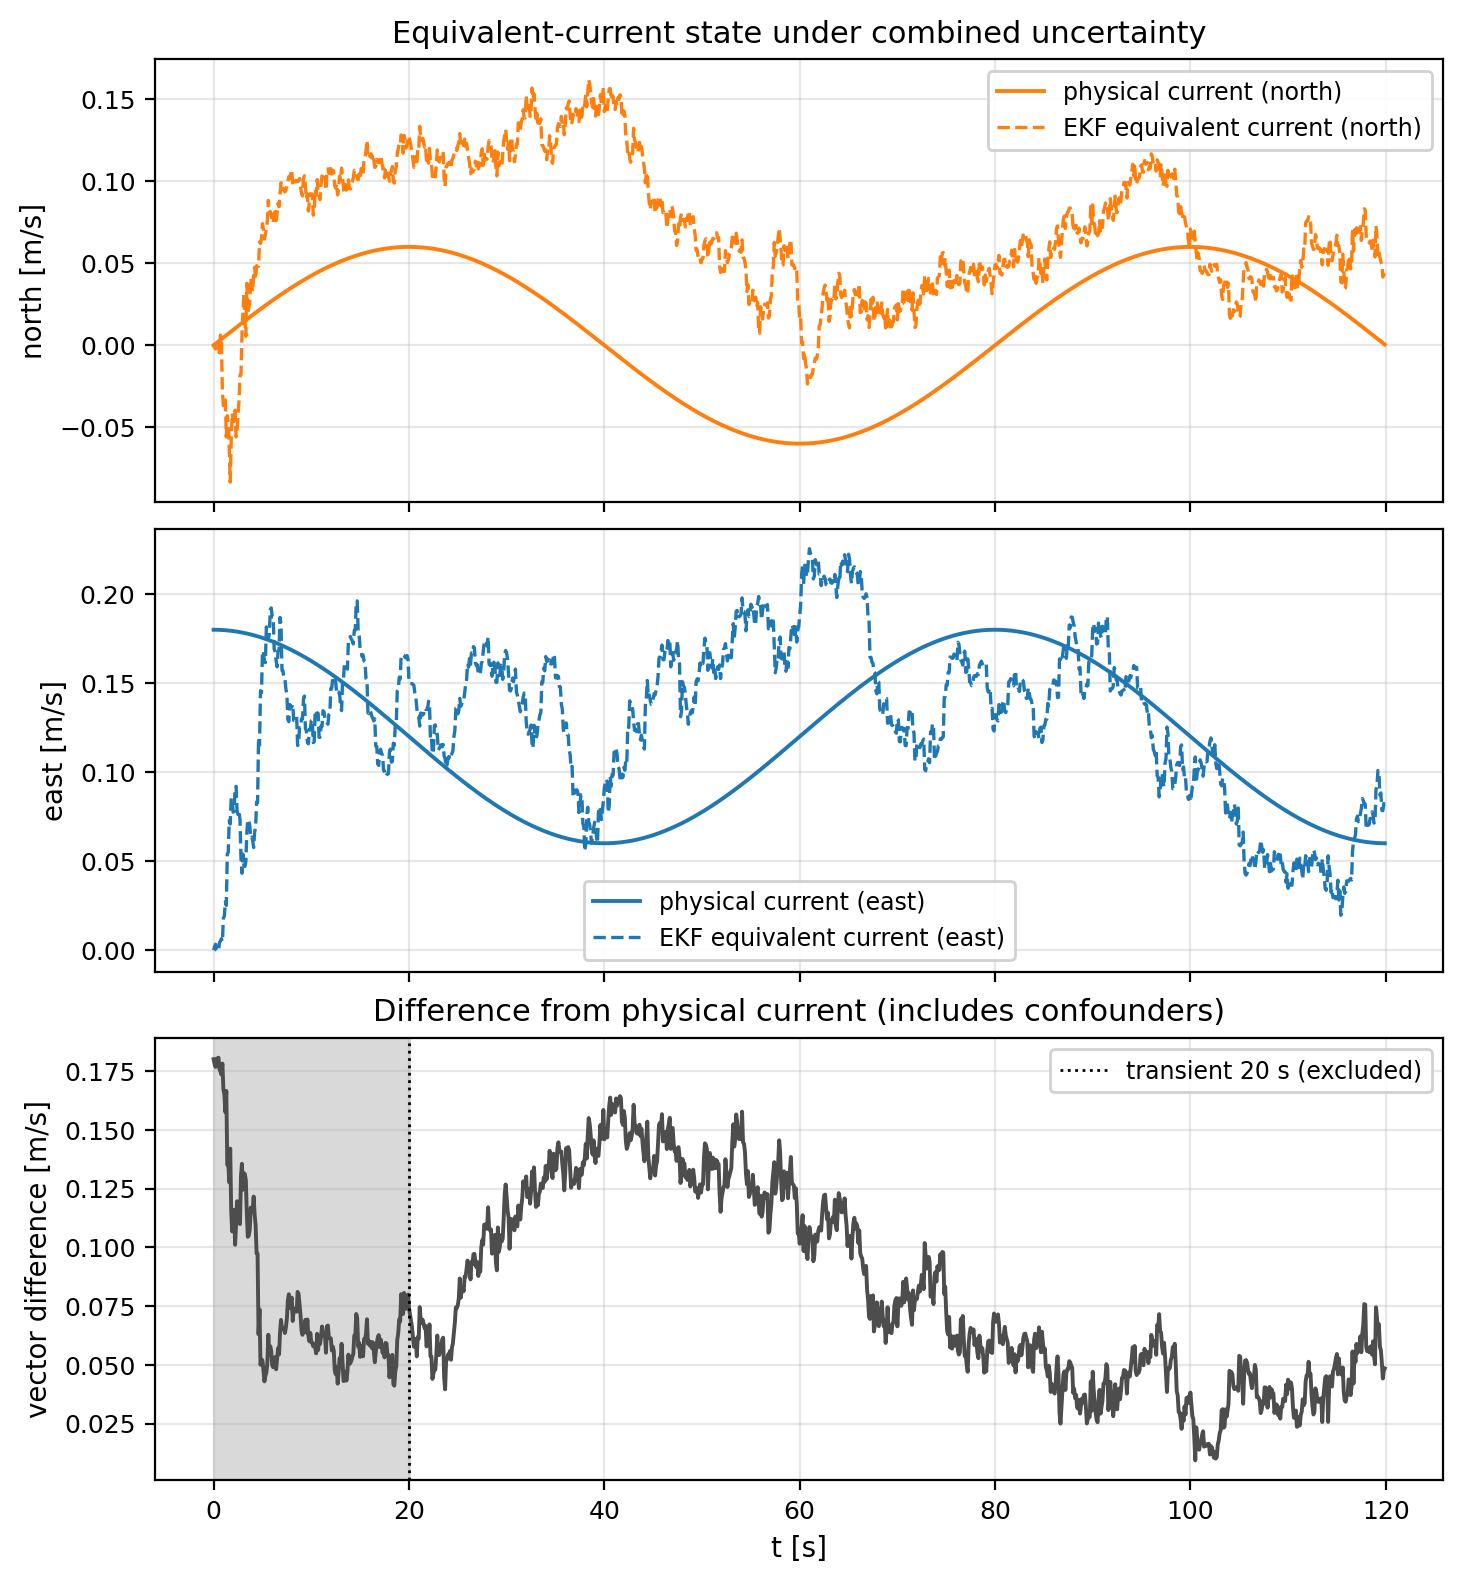
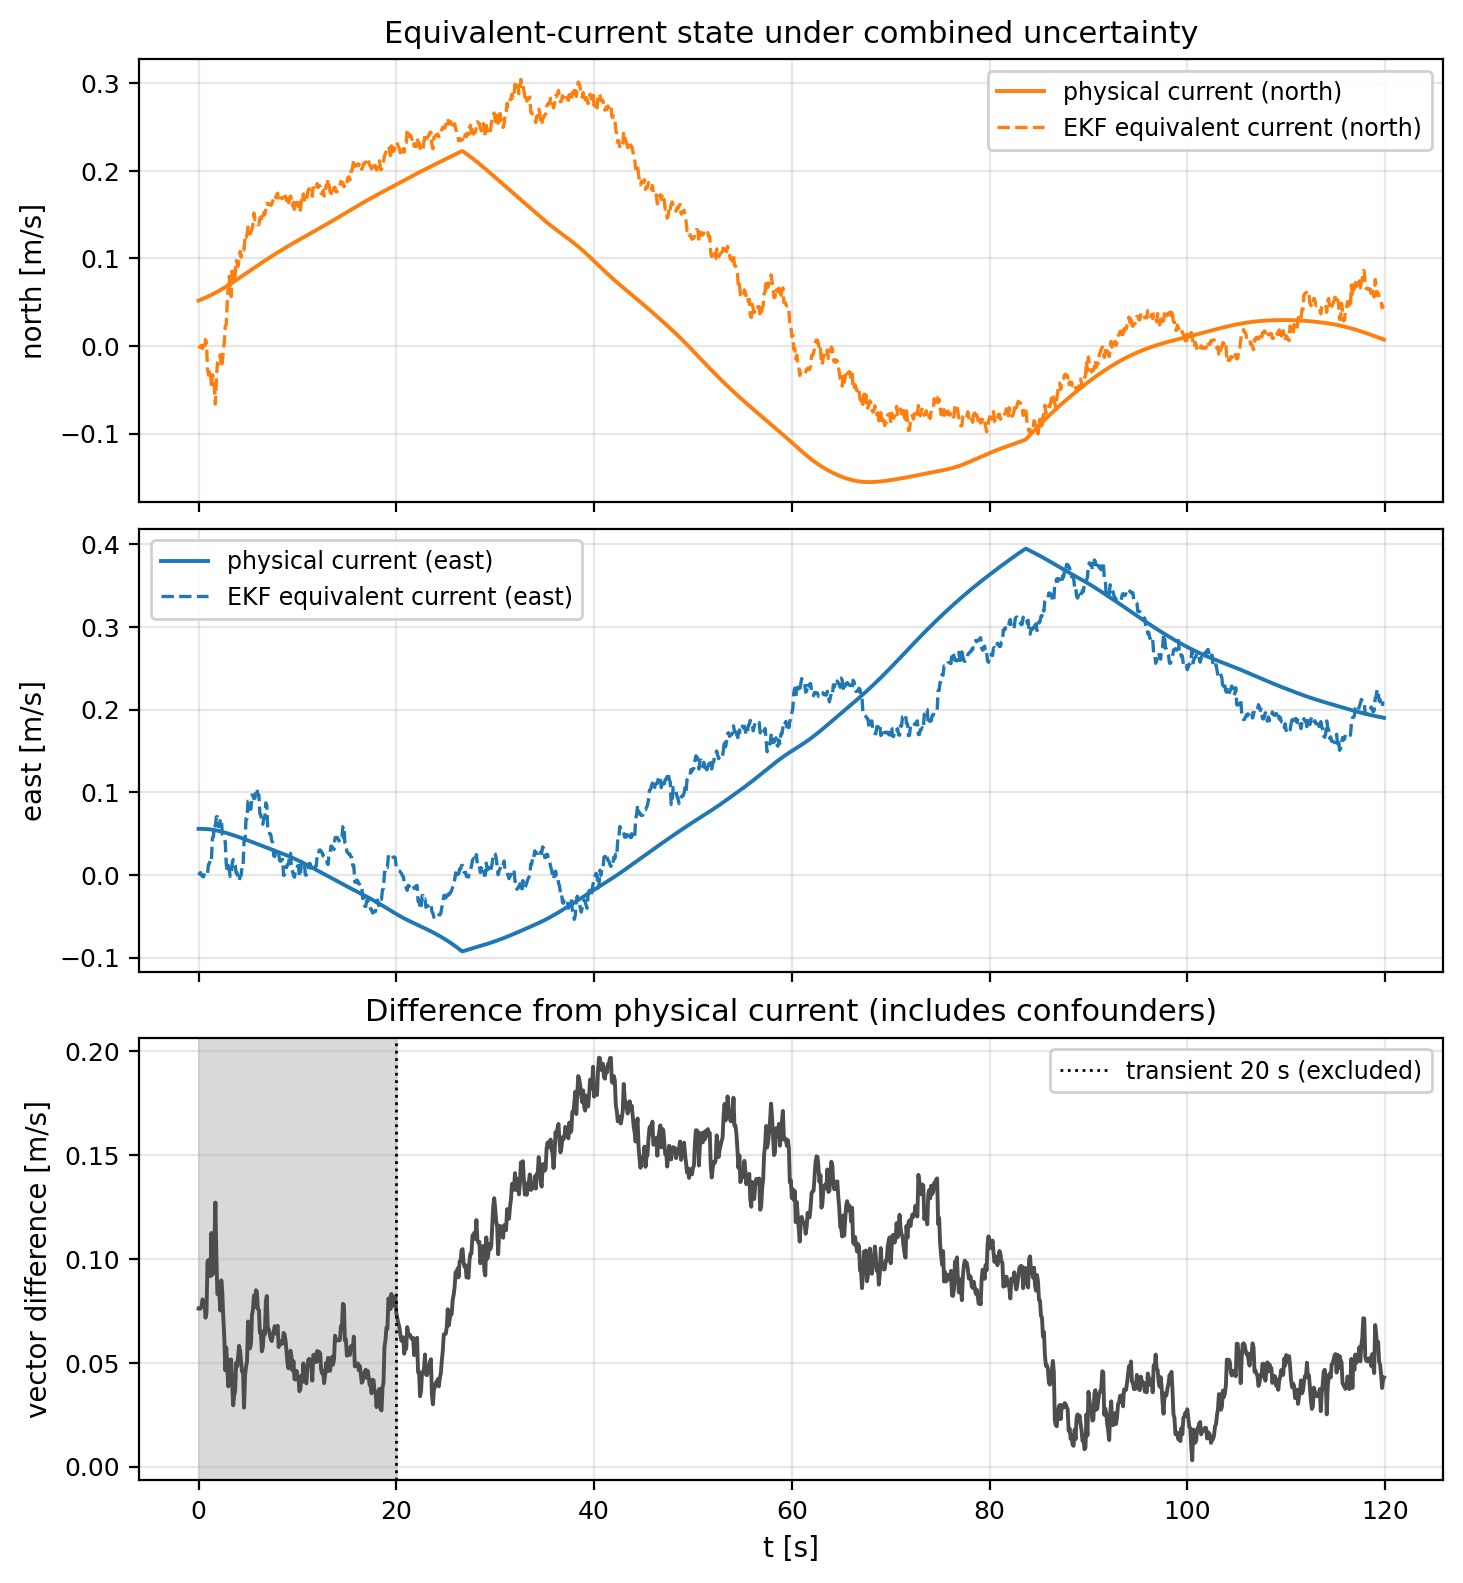
chore: regenerate the reference artifacts
The eddy field changes the flagship scenario, so the deterministic
metrics move with it and the schema-locked scenario description follows;
the determinism contract was re-verified end to end.

diff --git a/docs/control.md b/docs/control.md
@@ -397,22 +397,22 @@ solve times are machine-dependent and reported only in the benchmark table.
 <!-- generated:reference-controller-comparison-v1:start -->
 | Metric | LOS (PID/PI) | Nominal NMPC | Aware NMPC | Aware MPCC |
 |---|---:|---:|---:|---:|
-| RMS cross-track error [m] | 0.69 | 0.41 | 0.23 | 0.25 |
-| P95 cross-track error [m] | 0.98 | 0.65 | 0.53 | 0.61 |
-| Max cross-track error [m] | 1.07 | 0.74 | 0.63 | 0.71 |
-| RMS wrapped heading error [deg] | 7.1 | 10.5 | 11.2 | 9.8 |
-| Max wrapped heading error [deg] | 20.4 | 27.7 | 31.7 | 29.1 |
-| Final path progress [m] | 154.9 | 156.2 | 156.1 | 164.2 |
-| Final path progress fraction [-] | 0.774 | 0.781 | 0.780 | 0.821 |
-| Mean progress rate [m/s] | 1.29 | 1.30 | 1.30 | 1.37 |
+| RMS cross-track error [m] | 1.00 | 0.63 | 0.33 | 0.33 |
+| P95 cross-track error [m] | 1.77 | 1.17 | 0.72 | 0.63 |
+| Max cross-track error [m] | 1.89 | 1.28 | 0.88 | 1.06 |
+| RMS wrapped heading error [deg] | 6.5 | 9.7 | 11.5 | 11.1 |
+| Max wrapped heading error [deg] | 17.4 | 23.8 | 28.9 | 28.9 |
+| Final path progress [m] | 149.3 | 156.2 | 156.1 | 159.6 |
+| Final path progress fraction [-] | 0.746 | 0.781 | 0.780 | 0.797 |
+| Mean progress rate [m/s] | 1.24 | 1.30 | 1.30 | 1.33 |
 | Route completion [s] | — | — | — | — |
-| RMS applied thrust [N] | 31.8 | 33.7 | 33.5 | 36.6 |
-| Max applied thrust [N] | 38.5 | 59.2 | 59.1 | 43.1 |
-| RMS applied yaw moment [N m] | 1.5 | 2.2 | 2.5 | 2.3 |
-| Max applied yaw moment [N m] | 3.9 | 6.0 | 6.0 | 6.0 |
-| Thrust saturation duration [s] | 0.0 | 0.1 | 0.0 | 0.0 |
-| Yaw-moment saturation duration [s] | 0.0 | 2.4 | 1.7 | 2.3 |
-| Either channel saturated [s] | 0.0 | 2.5 | 1.7 | 2.3 |
+| RMS applied thrust [N] | 32.8 | 36.4 | 35.9 | 36.9 |
+| Max applied thrust [N] | 40.0 | 59.6 | 58.6 | 44.0 |
+| RMS applied yaw moment [N m] | 1.3 | 2.1 | 2.5 | 2.3 |
+| Max applied yaw moment [N m] | 3.4 | 5.9 | 6.0 | 6.0 |
+| Thrust saturation duration [s] | 0.0 | 1.2 | 0.0 | 0.0 |
+| Yaw-moment saturation duration [s] | 0.0 | 1.2 | 2.3 | 2.1 |
+| Either channel saturated [s] | 0.0 | 2.5 | 2.3 | 2.1 |
 
 Deterministic flagship metrics formatted from `results/reference/metrics.json` (scenario `scenario_v3_mpcc`, revision 1, seed 42, 120.0 s at 0.01 s integration). Route completion is the first sample at 99% of total chord progress; an incomplete route is shown as —. Saturation counts left-closed intervals whose applied value lies within 1% of a `ModelParams` bound span (docs/validation.md). No wall-clock timing appears here: predictive solve times are machine-dependent and reported separately in the benchmark table.
 

diff --git a/docs/validation.md b/docs/validation.md
@@ -106,11 +106,11 @@ metrics.
 <!-- generated:reference-benchmark-v1:start -->
 | Metric | Result |
 |---|---:|
-| C++ RK4 propagation (vessel + actuator) | **520.0 ns/step** |
-| 1000 s simulation (Python loop) | **363 ms** |
-| Nominal NMPC mean / median / p95 / max [ms] | **25.5 / 24.7 / 35.1 / 50.6** |
-| Disturbance-aware NMPC mean / median / p95 / max [ms] | **22.8 / 21.9 / 33.0 / 44.3** |
-| Disturbance-aware MPCC mean / median / p95 / max [ms] | **39.3 / 37.6 / 54.2 / 84.6** |
+| C++ RK4 propagation (vessel + actuator) | **579.6 ns/step** |
+| 1000 s simulation (Python loop) | **582 ms** |
+| Nominal NMPC mean / median / p95 / max [ms] | **26.0 / 23.6 / 43.9 / 69.0** |
+| Disturbance-aware NMPC mean / median / p95 / max [ms] | **21.7 / 20.3 / 29.5 / 48.7** |
+| Disturbance-aware MPCC mean / median / p95 / max [ms] | **37.8 / 33.4 / 61.9 / 156.4** |
 
 Machine-dependent wall-clock measurements recorded in `results/reference/benchmark.json` (`benchmark_v3`, 900 predictive solves, 0 failed). Per-workload status histograms: Nominal NMPC: 300 samples, 0 failed, Solve_Succeeded=300; Disturbance-aware NMPC: 300 samples, 0 failed, Solve_Succeeded=300; Disturbance-aware MPCC: 300 samples, 0 failed, Solve_Succeeded=300. The 5 Hz control period defines a 200 ms budget; these solve times make no real-time capability claim. Regenerate with `python tools/generate_reference_results.py`.
 
@@ -133,9 +133,9 @@ Scenario, seed, configuration, source revision and fingerprint:
 | Schema | `results/reference/reference.schema.json` (version 3) |
 | Deterministic metrics | `results/reference/metrics.json` |
 | Machine-dependent benchmark | `results/reference/benchmark.json` |
-| Generated at (UTC) | 2026-09-28T15:48:40+00:00 |
-| Source commit | `ef2d7847d308e027f9ec251640d6a2f9355290b9` |
[1 lines of base64/hex data omitted]
+| Generated at (UTC) | 2026-09-28T18:03:58+00:00 |
+| Source commit | `d140d80ec717edb12682e8d5f2bf2c9eca735ac4` |
[1 lines of base64/hex data omitted]
 
 Provenance rows are generation-time records; the content-based source fingerprint is the authoritative consistency check. The full reproducibility contract and the metric definitions live in the validation documentation.
 

diff --git a/docs/estimation.md b/docs/estimation.md
@@ -118,11 +118,11 @@ explicit 20.0 s transient.
 <!-- generated:reference-estimator-v1:start -->
 | Metric | Value |
 |---|---:|
-| Position error RMS [m] | 0.16 |
-| Position error max [m] | 0.48 |
+| Position error RMS [m] | 0.18 |
+| Position error max [m] | 0.53 |
 | Yaw-rate error RMS [rad/s] | 0.008 |
-| Equivalent-current difference RMS [m/s] (after 20.0 s transient) | 0.092 |
-| Equivalent-current difference max [m/s] (after 20.0 s transient) | 0.164 |
+| Equivalent-current difference RMS [m/s] (after 20.0 s transient) | 0.107 |
+| Equivalent-current difference max [m/s] (after 20.0 s transient) | 0.197 |
 
 Estimator errors of the NMPC reference run, computed from the callback-aligned true/estimated records and formatted from `results/reference/metrics.json` (scenario `scenario_v3_mpcc`, seed 42). In this combined-uncertainty run the augmented state is an equivalent-current proxy: wind gusts and model mismatch can shift it away from the physical current. The difference reported here quantifies that confounding (docs/estimation.md §5); the isolated current-only validation is reported separately.
 
